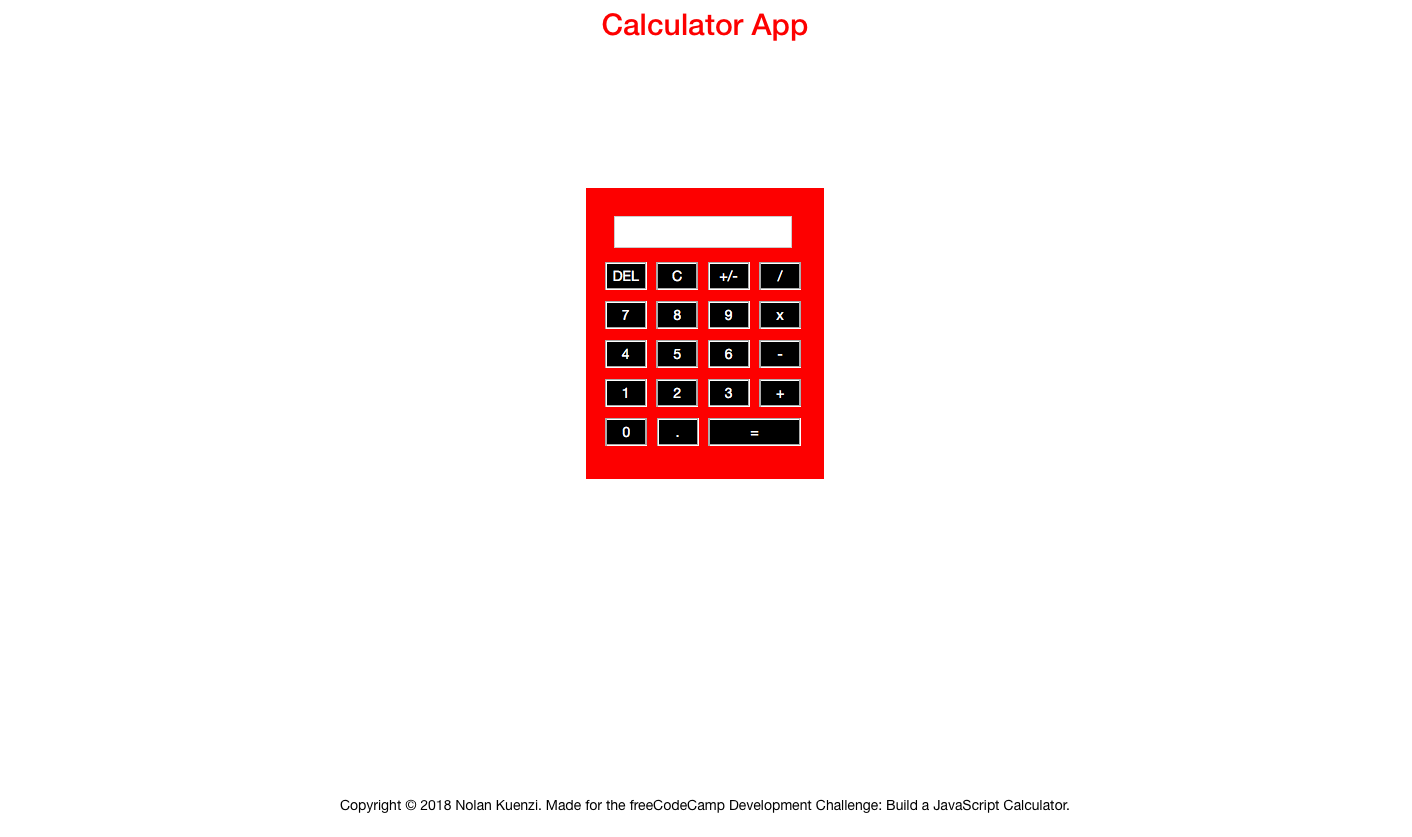
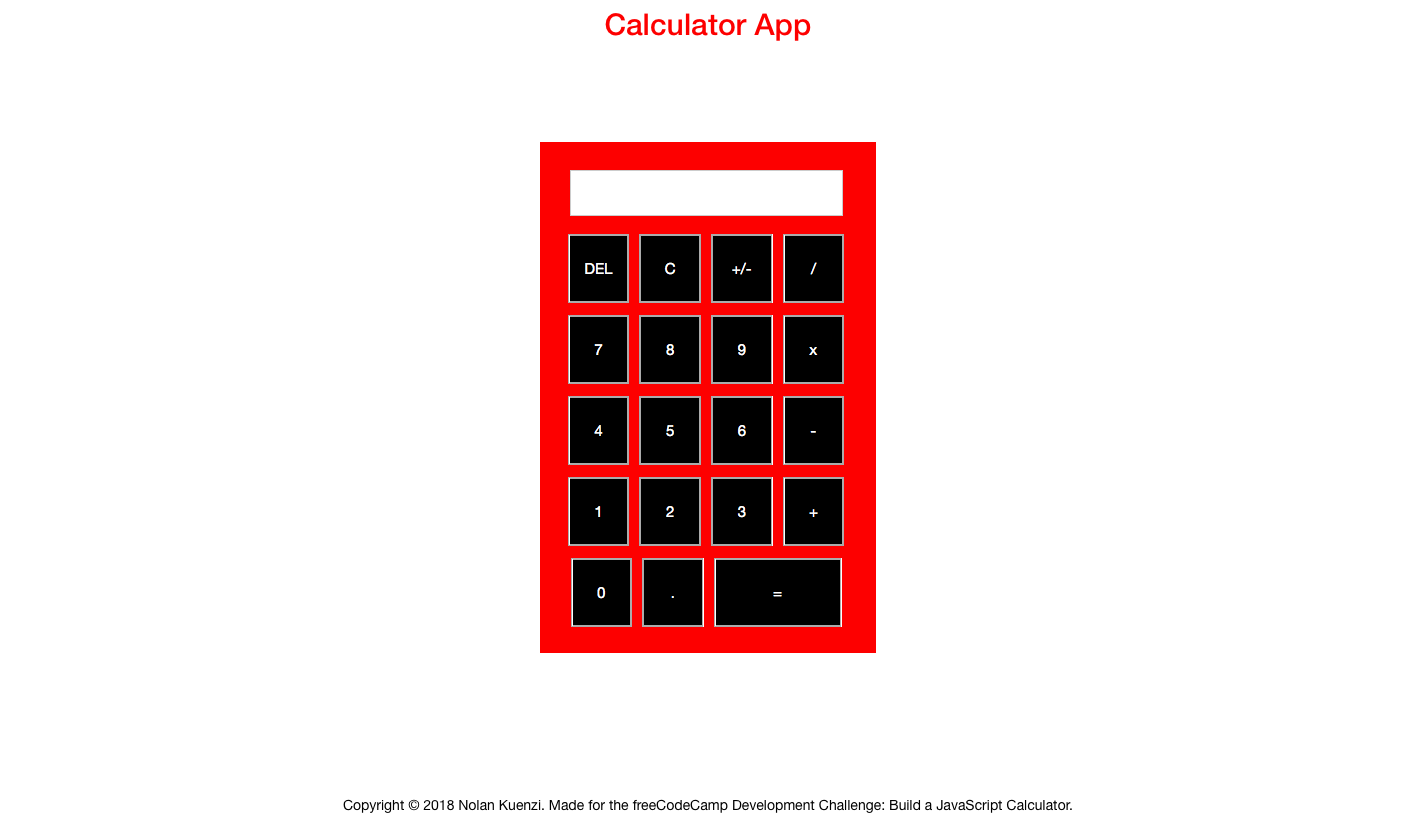
Two react projects added

Changed region(s): [[0.3739, 0.1553, 0.6232, 0.7766], [0.2493, 0.9319, 0.7479, 0.994], [0.4363, 0.0, 0.5609, 0.0621]]

diff --git a/index.html b/index.html
@@ -26,16 +26,13 @@
 		<h4 class="text-center" id="h4AM">Hi, I'm Nolan Kuenzi. I am a web-developer from the US. This page is a <br> portfolio of projects that I have worked on.</h4>
 	</div>
 
-	<div id="aboutSectionPic">
-		<div class="row">
-			<div><img src="Portfolio_Images/Portfolio_Pic.png" id="Portfolio_Pic" class="center-block"></div>
-		</div>
-	</div>
-	</div>
+</div>
 
 	<div id="portfolioSection"> 
-	
-	<div><h4 class="text-center" id="portfolioText">Portfolio:</h4><br></div>
+	<div><h4 class="text-center" id="portfolioText">Portfolio</h4>
+	<br>
+	<p class="portfolioSubText">Basic Projects:</p>
+	</div>
 
 	<div classs="row" id="firstRow">
     	<div class="col-md-6">
@@ -96,9 +93,31 @@
 			</div>
 		</div>
 	</div>	
-</div> 
 
-<div>
+	<div id="reactSection">
+	<div><p class="portfolioSubText">React Projects:</p></div>
+	<div class="row" id="thirdRow">
+	<div class="col-md-6">
+    		<div class="thumbnail"><a href="https://nolankuenzi.github.io/todoApp/" target="_blank">
+				<img src="Portfolio_Images/Todo_App.png" class="img-thumbnail" id="i4"></a>
+			<div class = "caption center-block">
+         		<h6>Todo-List App</h6>
+         	</div>
+			</div>
+		</div>
+
+	<div class="col-md-6">
+    <div class="thumbnail"><a href="https://nolankuenzi.github.io/reactCalculator/" target="_blank">
+			<img src="Portfolio_Images/React_Calculator.png" class="img-thumbnail" id="i5"></a>
+	<div class = "caption center-block">
+         		<h6>React Calculator</h6>
+         	</div>
+			</div>
+		</div>
+	</div>
+</div> <!-- This div closes Entire Portfolio Section --> 
+	<div id="bottomSection">
+	
 	<div id="contactSection">
 	<h4>Contact:</h4>
 		<a href="https://www.linkedin.com/in/nolan-kuenzi-07770473/" target="_blank"><img src="Portfolio_Images/LI_icon.png" id="liImg"></a>
@@ -109,15 +128,14 @@
 		<a href="https://github.com/NolanKuenzi" target="_blank"><img src="Portfolio_Images/GH_icon.png" id="ghImg"></a>
 	</div>
 	</div> 
-	<div id="footerDiv">
+	
+
 	<footer>
             <span id="footerText"> 
                 Copyright © 2018 Nolan Kuenzi. Made for the freeCodeCamp Development Challenge: Build a Personal Portfolio Webpage
             </span>
         </div>
 	</footer> 
-	</div>		
-
+	</div> <!-- Closes Entire Bottom Section -->
 </body>
 </html>
-

diff --git a/main.css b/main.css
@@ -30,7 +30,7 @@ ul li a {
 #aboutSection {
     position: relative;
     left: 50%;
-    top: 10em;
+    top: 7em;
     -webkit-transform: translateX(-50%);
     transform: translateX(-50%);
 }
@@ -46,24 +46,23 @@ ul li a {
     color: white;
 }
 
-#aboutSectionPic {
-    position: relative;
-    top: 3em;
-}
-
 #portfolioSection {
-    padding: 1.875em; 
-    padding: none;
     text-align: center;
     position: relative;
-    top: 24em;
+    top: 23em;
 }
 
 #portfolioText {
     position: relative;
-    bottom: 1em;
+    bottom: 1.5em;
     color: white;
 
+}
+
+.portfolioSubText {
+    color: white;
+    position: relative;
+    text-align: center;
 }
 
 .thumbnail {
@@ -73,23 +72,26 @@ ul li a {
     width: 40em;
 }
 
+.row {
+    display: inline-block;
+}
+
 #firstRow {
     display: inline-block;
 }
 
-#secondRow {
-    display: inline-block;
-}
-
-#thirdRow {
-    display: inline-block;
+#bottomSection {
+    position: relative;
+    bottom: 5em;
 }
 
 #contactSection {
     margin: 0 auto;
     width: 6.25em;
     position: relative;
-    top: 12em;
+    bottom: 6em;
+    left: .15em;
+    text-align: center;
 }
 
 #liImg {
@@ -101,23 +103,23 @@ ul li a {
     margin: 0 auto;
     width: 6.25em;
     position: relative;
-    top: 13em;
+    bottom: 1.5em;
 
 }
 
 #ghText {
     position: relative;
-    left: .3em;
+    left: .2em;
 }
 
 #ghImg {
     position: relative;
-    left: .4em;
+    left: .2em;
 }
 
-#footerDiv {
+footer {
     position: relative;
-    top: 15em;
     text-align: center;
+    bottom: 2em;
 
 }
